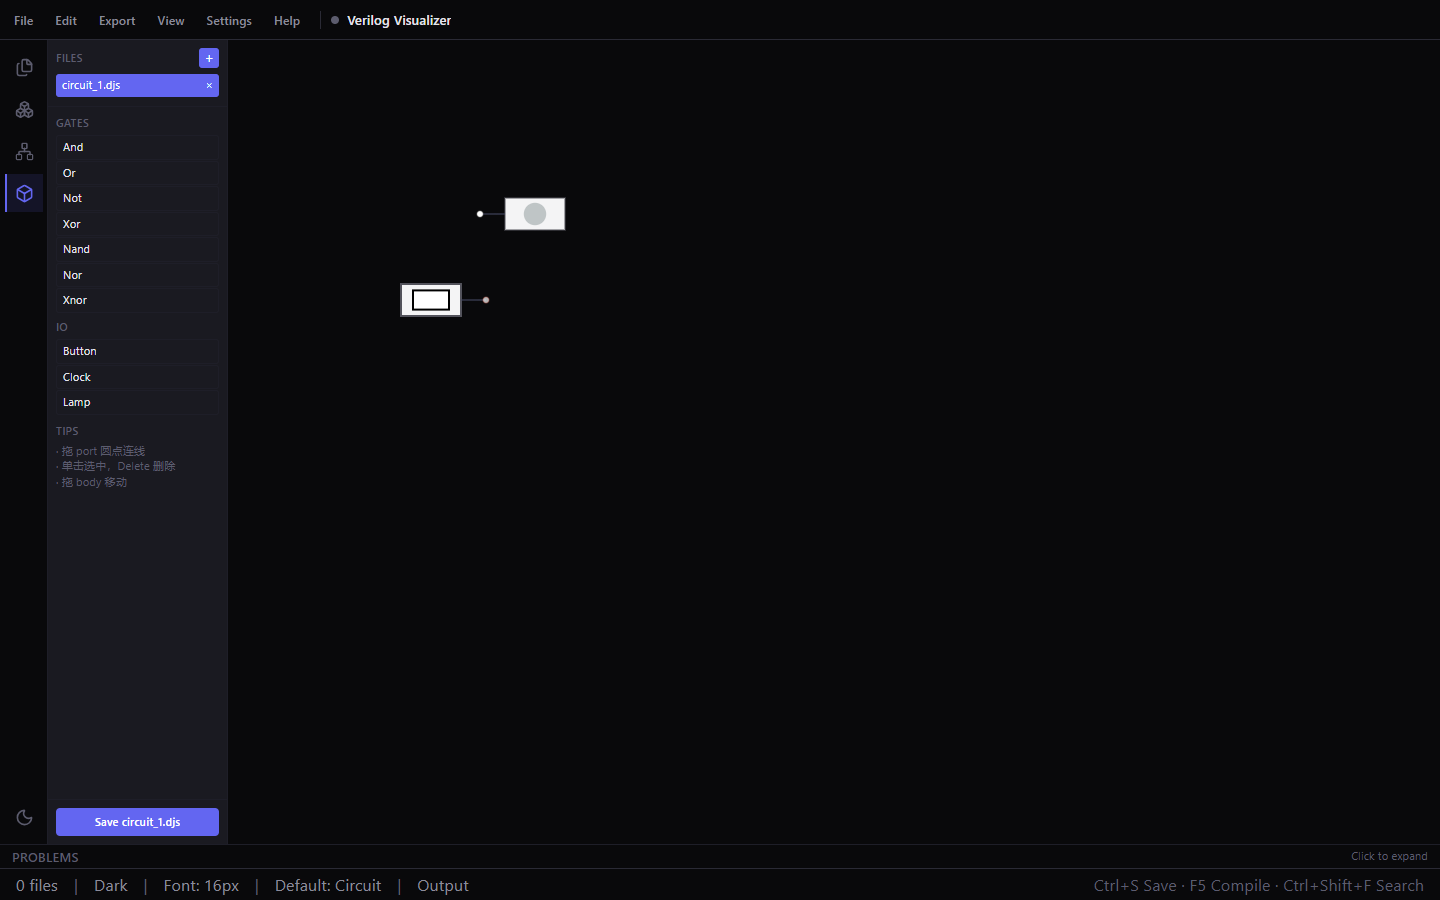
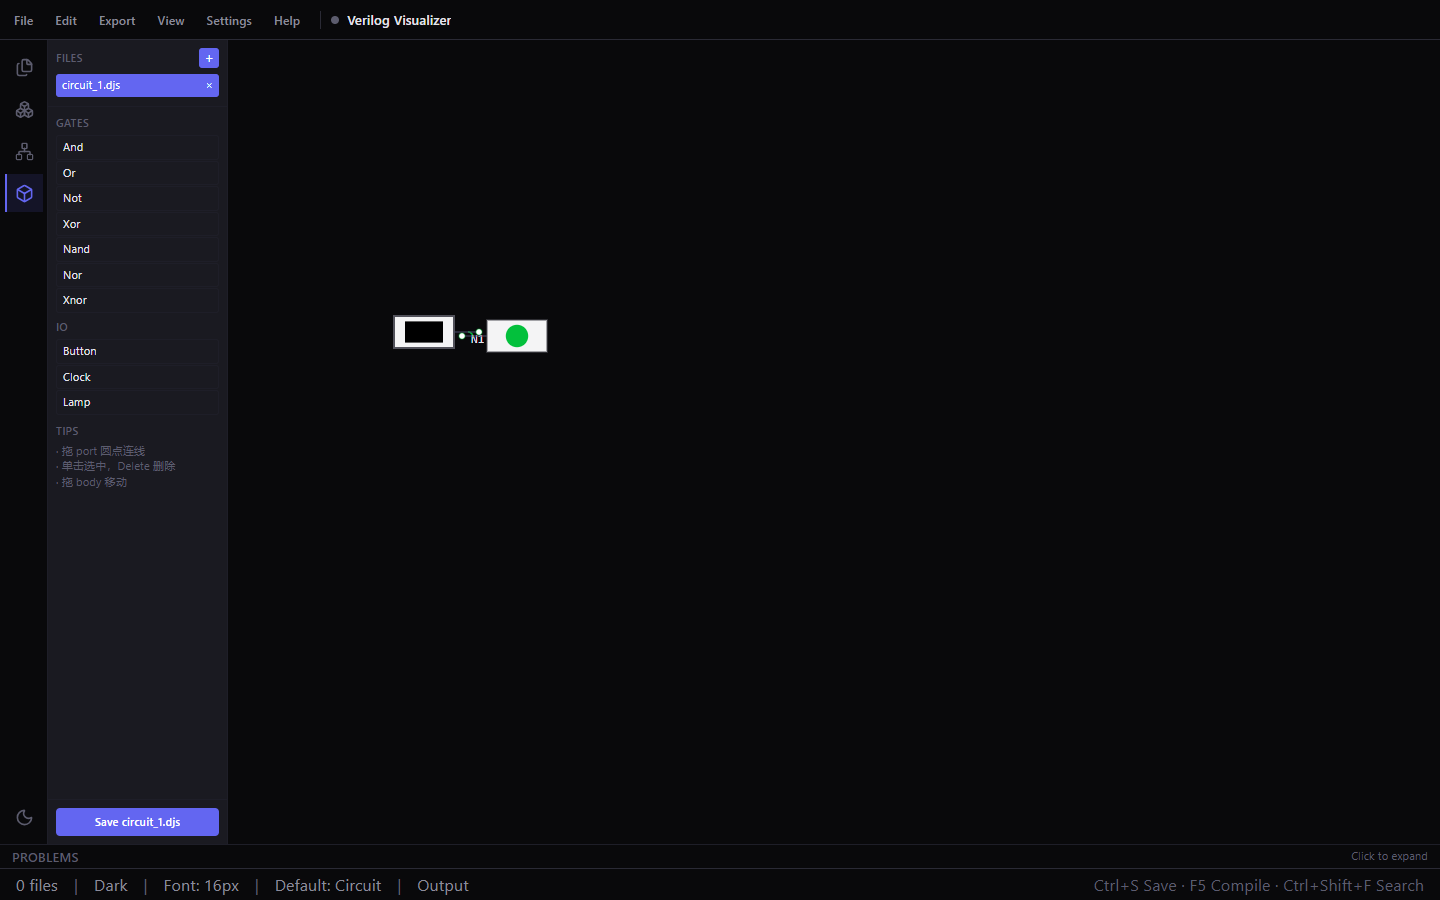
fix(sandbox): R8 — accept passive magnets + model-level QC assertions
- magnet match: [magnet] + value !== 'false' (accepts passive input ports)
- script: window.__sandboxPaper.model.getLinks() assertion
- script: real mouse click on Button body, lamp fill explicit color check
- result: 4/4 PASS (link=1, lamp #fc7c68 → #03c03c, 0 dialogs, 0 TypeError)

Changed region(s): [[0.25, 0.3111, 0.4062, 0.4044], [0.3438, 0.2178, 0.4062, 0.28]]

diff --git a/src/components/SandboxCanvas.tsx b/src/components/SandboxCanvas.tsx
@@ -72,7 +72,8 @@ function SandboxCanvas({ theme }: Props) {
     paper.off('render:done');
     paper.scale(1);
     paper.translate(0, 0);
-    circuit.start(); // R7.2: simulation engine must run for signal propagation
+    circuit.start();
+    (window as any).__sandboxPaper = paper; // for QC tests // R7.2: simulation engine must run for signal propagation
 
     // Load saved cells + links
     if (activeFile.graphJson && activeFile.graphJson !== JSON.stringify({ cells: [] })) {
@@ -122,9 +123,11 @@ function SandboxCanvas({ theme }: Props) {
     // Cell interaction: magnet→wire, body→drag+select
     paper.on('cell:pointerdown', (cellView: any, evt: any) => {
       if (typeof cellView.model.isLink === 'function' && cellView.model.isLink()) return;
-      const magnet = evt.target?.closest?.('[magnet="true"]');
+      const magnet = evt.target?.closest?.('[magnet]');
+      const magnetVal = magnet?.getAttribute('magnet');
+      const isMagnet = magnetVal && magnetVal !== 'false';
 
-      if (magnet) {
+      if (isMagnet) {
         // Start wiring — port name lives on parent .joint-port-body
         evt.stopPropagation();
         evt.preventDefault();
@@ -147,8 +150,9 @@ function SandboxCanvas({ theme }: Props) {
           document.removeEventListener('mousemove', onMove);
           document.removeEventListener('mouseup', onUp);
           const el = document.elementFromPoint(e.clientX, e.clientY);
-          const targetMagnet = el?.closest?.('[magnet="true"]');
-          if (targetMagnet) {
+          const targetMagnet = el?.closest?.('[magnet]');
+          const tMagnetVal = targetMagnet?.getAttribute('magnet');
+          if (targetMagnet && tMagnetVal && tMagnetVal !== 'false') {
             const tPortBody = targetMagnet.closest('.joint-port-body');
             const targetPort = tPortBody?.getAttribute('port');
             const tCellEl = targetMagnet.closest('[model-id]');
